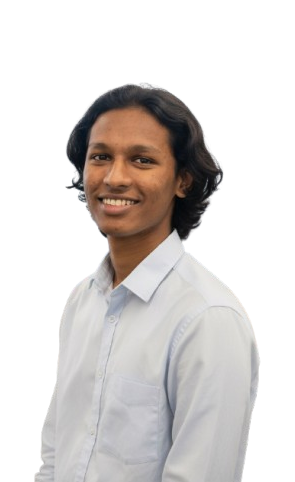
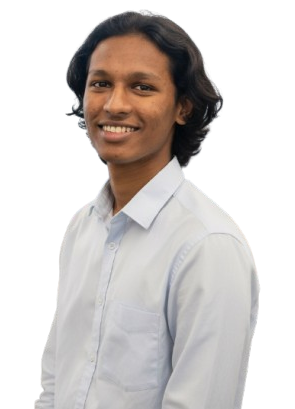
loader

diff --git a/components/Hero.tsx b/components/Hero.tsx
@@ -1,14 +1,13 @@
 'use client';
 
 import { motion } from 'framer-motion';
-import { Github, Linkedin, Mail } from 'lucide-react';
 import Image from 'next/image';
 
 export default function Hero() {
   return (
-    <section className="min-h-screen flex flex-col md:flex-row items-center justify-center px-4 md:px-6 pt-20 gap-8 md:gap-12">
-      <Image src="/assets/Mine.png" alt="Nimesh Akalanka" width={200} height={300} className="object-contain border rounded-full"/>
-      <div className="max-w-4xl text-center">
+    <section className="min-h-screen flex flex-row items-center justify-center px-4 md:px-6 pt-20 gap-8 md:gap-12">
+      <Image src="/assets/Mine.png" alt="Nimesh Akalanka" width={300} height={450} className="object-contain md:w-[350px] md:h-[525px] w-[250px] h-[375px] self-start md:self-center"/>
+      <div className="max-w-4xl text-center self-start md:mt-[120px]">
         <motion.div
           initial={{ opacity: 0, y: 20 }}
           animate={{ opacity: 1, y: 0 }}
@@ -21,10 +20,12 @@ export default function Hero() {
           <p className="text-lg sm:text-xl md:text-2xl text-gray-400 dark:text-gray-400 light:text-gray-600 mb-6 md:mb-8">
             Full Stack Developer | Software Engineer
           </p>
-          <p className="text-base sm:text-lg text-gray-500 dark:text-gray-500 light:text-gray-700 mb-6 md:mb-8 px-4 md:px-0">
-            Passionate about building modern web applications with clean code and intuitive user experiences.
+          <p className="text-base sm:text-lg text-gray-500 dark:text-gray-500 light:text-gray-700 mb-6 md:mb-8 px-4 md:px-0 leading-relaxed">
+            I am a 22-year-old undergraduate pursuing my B.Sc. (Hons) in Information Systems at Sabaragamuwa University of Sri Lanka. I am a passionate full-stack website developer, with skills in both front-end and back-end development.
           </p>
-          <br/>
+          <p className="text-base sm:text-lg text-gray-500 dark:text-gray-500 light:text-gray-700 mb-6 md:mb-8 px-4 md:px-0 leading-relaxed">
+            Since 2021, I have worked as a freelancer on platforms like Fiverr, where I specialize in creating Telegram bots and web applications. This freelance experience has allowed me to apply my technical knowledge to real-world projects and build a strong professional portfolio.
+          </p>
           <div className="flex items-center gap-3 md:gap-4 align-center justify-center mb-8">
             
             <section className="flex justify-center items-center relative">

diff --git a/app/page.tsx b/app/page.tsx
@@ -1,21 +1,38 @@
+'use client';
+
+import { useState, useEffect } from 'react';
 import Navigation from '@/components/Navigation';
 import Hero from '@/components/Hero';
-import About from '@/components/About';
 import Skills from '@/components/Skills';
 import Projects from '@/components/Projects';
 import Contact from '@/components/Contact';
 import Footer from '@/components/Footer';
+import Preloader from '@/components/Preloader';
 
 export default function Home() {
+  const [isLoading, setIsLoading] = useState(true);
+
+  useEffect(() => {
+    const timer = setTimeout(() => {
+      setIsLoading(false);
+    }, 2000);
+
+    return () => clearTimeout(timer);
+  }, []);
+
   return (
-    <main className="min-h-screen bg-gradient-to-br from-gray-900 via-gray-800 to-gray-900 text-white transition-colors duration-300">
-      <Navigation />
-      <Hero />
-      <About />
-      <Skills />
-      <Projects />
-      <Contact />
-      <Footer />
-    </main>
+    <>
+      <Preloader />
+      {!isLoading && (
+        <main className="min-h-screen bg-gradient-to-br from-gray-900 via-gray-800 to-gray-900 text-white transition-colors duration-300">
+          <Navigation />
+          <Hero />
+          <Skills />
+          <Projects />
+          <Contact />
+          <Footer />
+        </main>
+      )}
+    </>
   );
 }

diff --git a/components/Preloader.tsx b/components/Preloader.tsx
@@ -1,0 +1,33 @@
+'use client';
+
+import { motion } from 'framer-motion';
+import { useEffect, useState } from 'react';
+
+export default function Preloader() {
+  const [isLoading, setIsLoading] = useState(true);
+
+  useEffect(() => {
+    const timer = setTimeout(() => {
+      setIsLoading(false);
+    }, 2000);
+
+    return () => clearTimeout(timer);
+  }, []);
+
+  if (!isLoading) return null;
+
+  return (
+    <motion.div
+      initial={{ opacity: 1 }}
+      exit={{ opacity: 0 }}
+      transition={{ duration: 0.5 }}
+      className="fixed inset-0 z-[9999] flex items-center justify-center bg-gradient-to-br from-gray-900 via-gray-800 to-gray-900"
+    >
+      <div className="flex-col gap-4 w-full flex items-center justify-center">
+        <div className="w-20 h-20 border-4 border-transparent text-blue-400 text-4xl animate-spin flex items-center justify-center border-t-blue-400 rounded-full">
+          <div className="w-16 h-16 border-4 border-transparent text-red-400 text-2xl animate-spin flex items-center justify-center border-t-red-400 rounded-full"></div>
+        </div>
+      </div>
+    </motion.div>
+  );
+}
